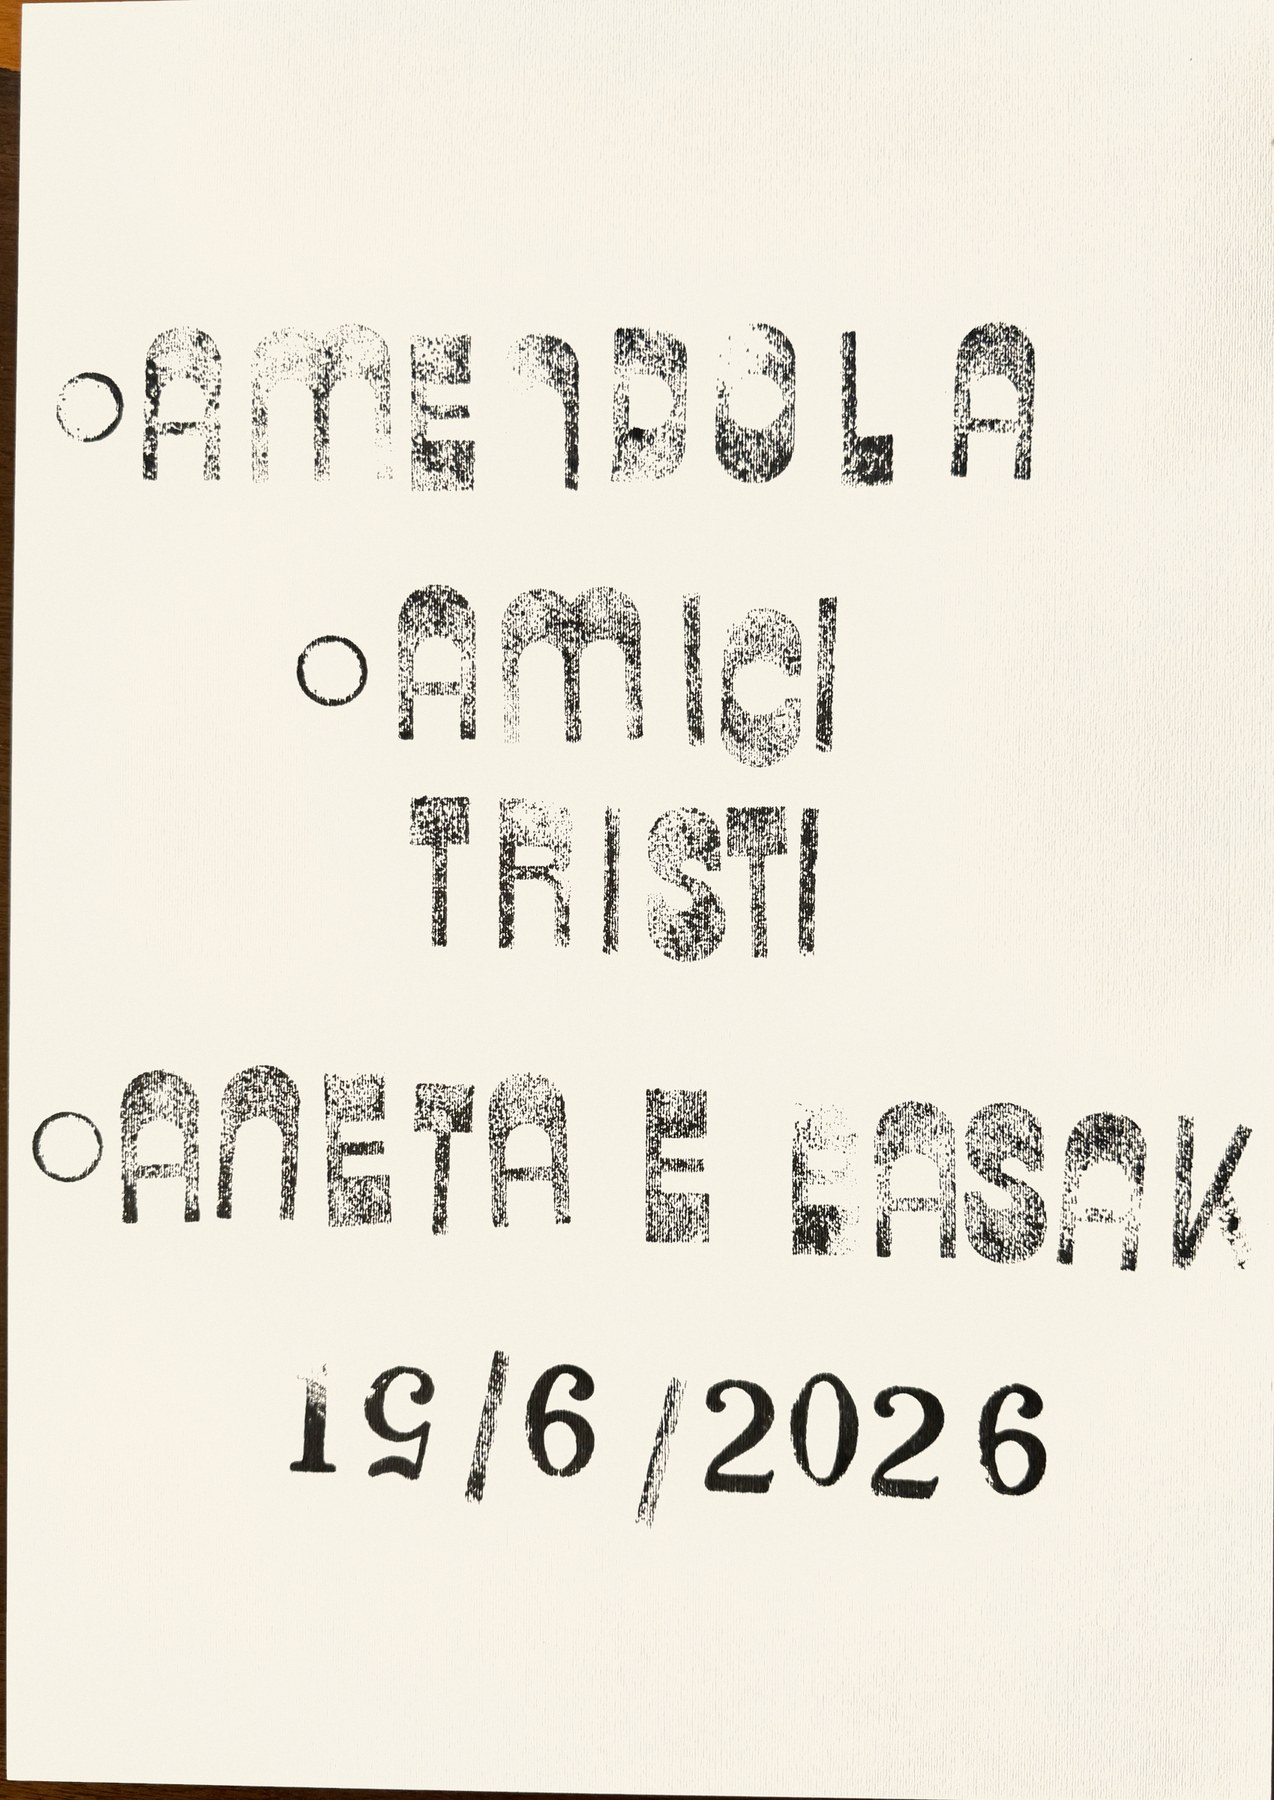
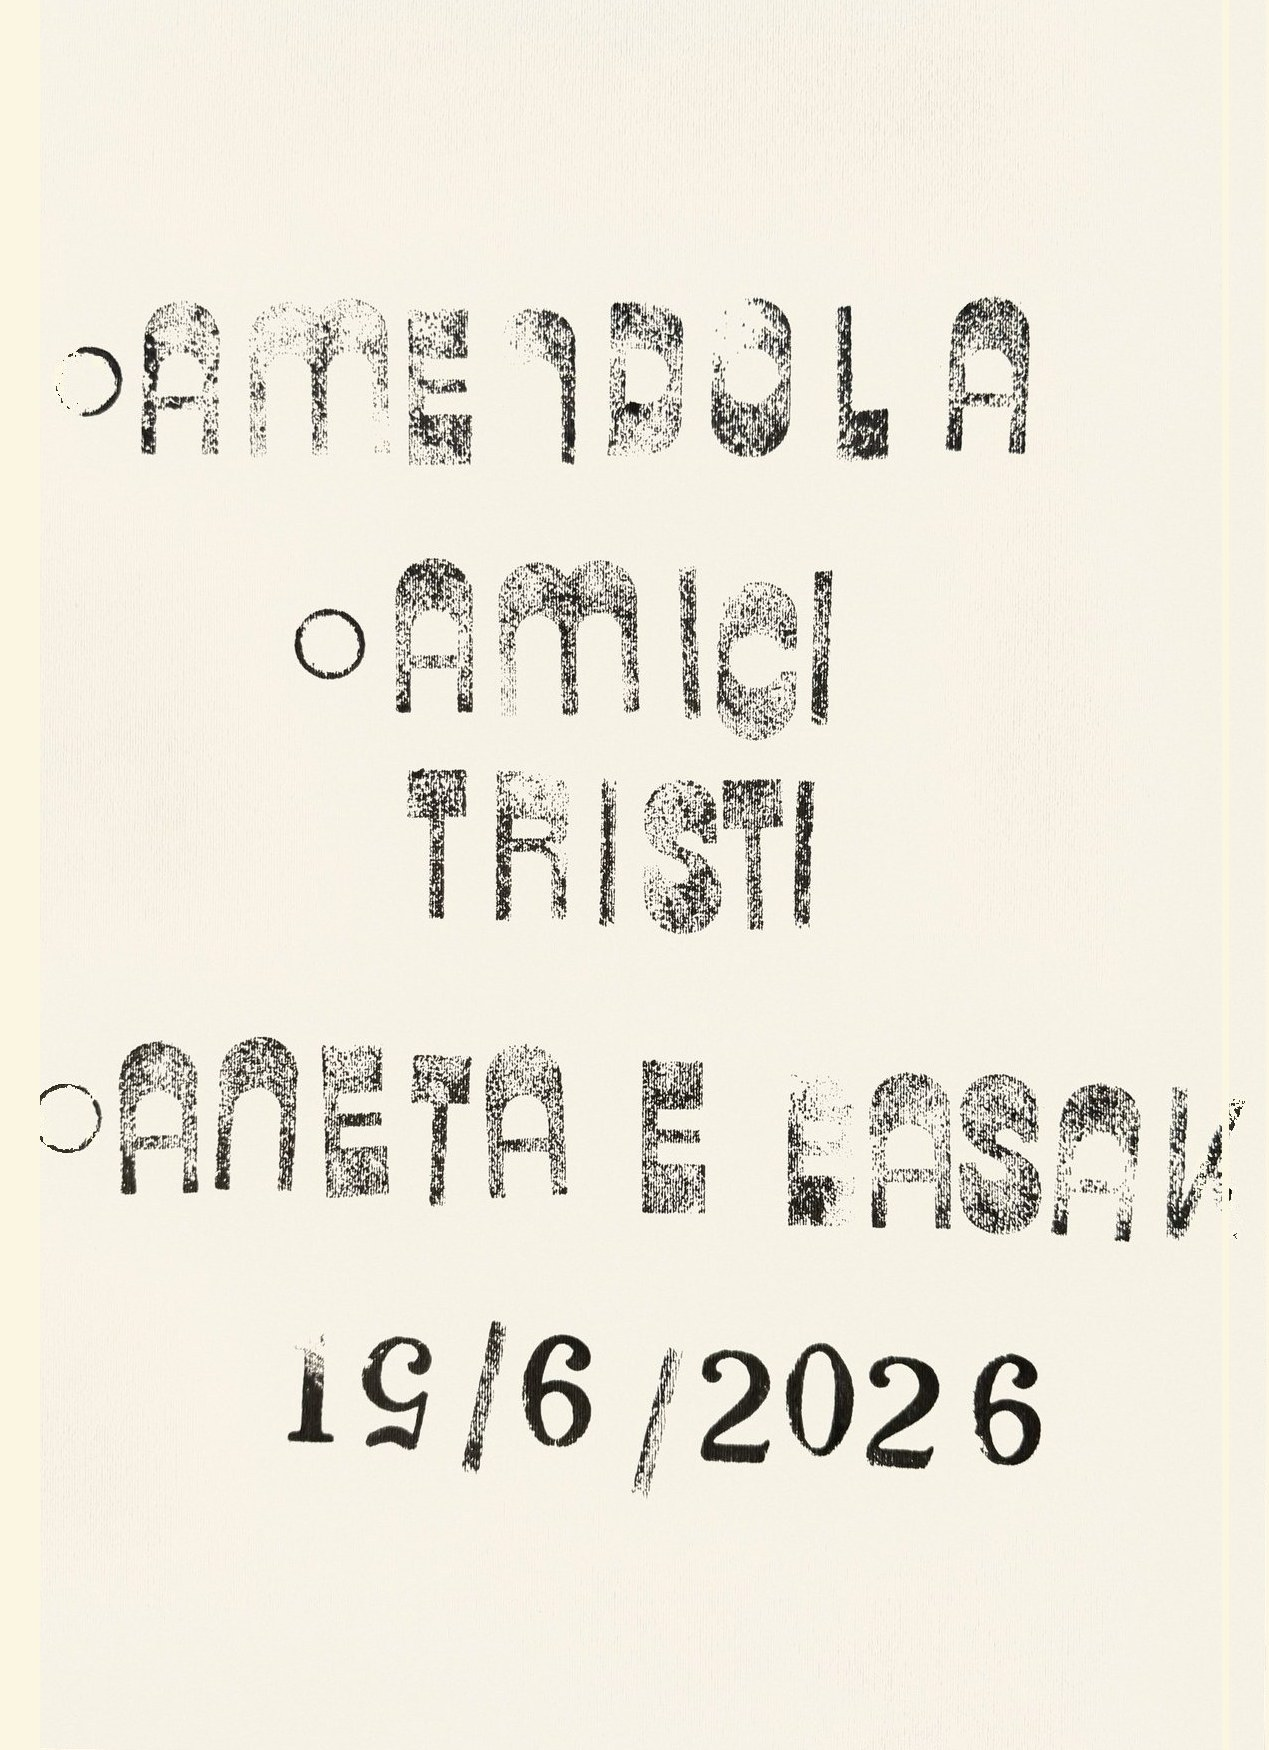
fix: 15/6 BASAK leggibile (crop ottimizzato, no bordi)

diff --git a/index.html b/index.html
@@ -672,11 +672,11 @@ section#timbri{ padding-top: clamp(160px, 18vw, 240px); }
       <figcaption class="work-caption"><span class="work-date">16/6/26</span></figcaption>
     </figure>
     <figure class="work">
-      <div class="work-frame" style="--ratio: 141.29%;">
+      <div class="work-frame" style="--ratio: 137.9%;">
         <img src="foto_definitive/Timbro_2026-06-15.jpg"
              srcset="foto_definitive/thumbs/Timbro_2026-06-15.jpg 800w, foto_definitive/Timbro_2026-06-15.jpg 1800w"
              sizes="(max-width: 720px) 92vw, 720px"
-             width="1274" height="1800"
+             width="1269" height="1750"
              alt="15/6/26" loading="lazy" decoding="async" />
       </div>
       <figcaption class="work-caption"><span class="work-date">15/6/26</span></figcaption>
